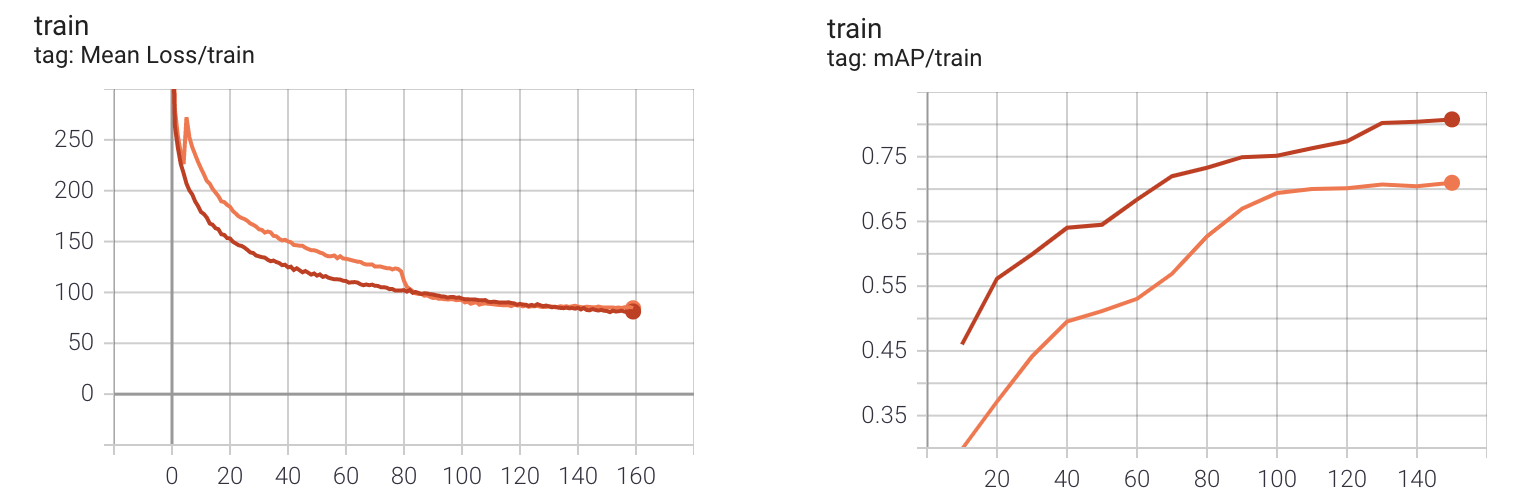
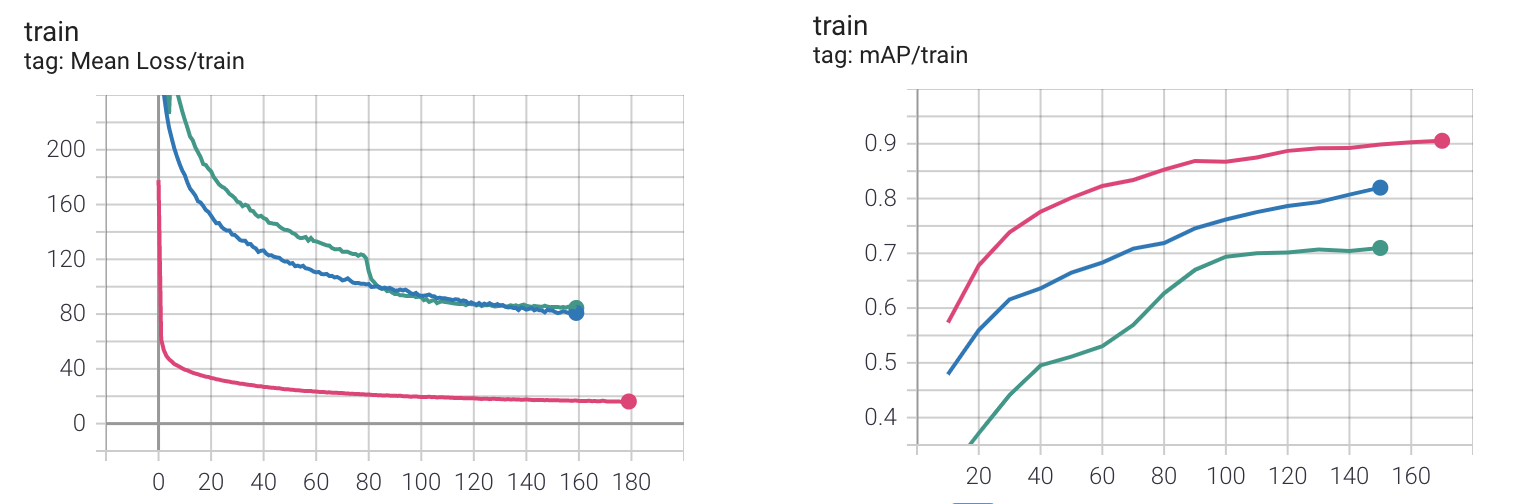
updated results section and mAP chart

diff --git a/algorithms/yolo_v2/README.md b/algorithms/yolo_v2/README.md
@@ -78,22 +78,23 @@ To start off, I used my past YOLOv1 code and modyfied it to fit whatever changed
 
 ## Results
 
-In short, when using pre-trained Darknet19 on ImageNet and later training on VOC2007+2012 I managed to obtain 0.69 testing on VOC2007 (calculated with Padilla et al. scripts). 
+In short, when using pre-trained Darknet19 on ImageNet and later training on VOC2007+2012 I managed to obtain 0.72 testing on VOC2007 (calculated with Padilla et al. scripts). 
 
-Same model but testing with a fixed 0.4 confidence threshold this corresponds to mAP 0.81 on train set and 0.58 on test. For Darknet19 pre-training, I got 91.6% top-5 accuracy and 74.0% top-1 accuracy on ImageNet test set after 150 epochs of training on ImageNet train set.
+Same model but testing with a fixed 0.4 confidence threshold this corresponds to mAP 0.91 on train set and 0.56 on test. For Darknet19 pre-training, I got 91.6% top-5 accuracy and 74.0% top-1 accuracy on ImageNet test set after 150 epochs of training on ImageNet train set.
 
 
 ![alt text][image2]
-*Fig. 2 YOLOv2 training charts (red = constant LR (2e-10). orange = scheduled LR).*
+*Fig. 2 YOLOv2 training charts: red = constant LR (2e-5), 180 epochs and loss weights set (2); blue = constant LR (2e-5) and loss weights set (1); green = scheduled LR).*
 
 ## Notes for running the code (similar as YOLOv1)
 - configuration parameters for each script (train/test/detect etc.) are global variables at the top of the source code (paths to datasets, pre-trained models; hyperparameters etc.)
 - first epoch always takes a bit longer to train
 - all paths in train/test/detect scripts need to be updated to match your dataset directories. 
 - this repository does not include the full datasets required to train the model, however I included tiny samples for both Pascal VOC and ImageNet to test things out more smoothly (look in the YOLO_v1 directory)
-- in the evaluation tables, I note the times and performances for multiple runs as I used a shared remote server that allowed running code only in certain blocks of time (e.g. 24h, 48h etc.)
+- in the evaluation table, I note the times and performances for multiple runs as I used a shared remote server that allowed running code only in certain blocks of time (e.g. 24h, 48h etc.)
 - in comparison to the YOLOv2 paper, my final version doesn't include Darknet training with the high resolution images, nor the YOLOv2 training with multi-scale (ie. switching scale every 10 epochs); I tested those solutions but didn't give me particularly improved results
 - LR setting can make quite a difference. The setting from the paper for scheduled LR decreasing by e-10 didn't work that good for me, after playing around with some other LR set I managed to improve it. However, in the end constant LR worked best.
+- weights for loss components do make a difference as well. My initial weights had greatly elevated object loss and then box loss (set 1), when I made all weights closer to each other just slightly favouring object loss mAP went up by 3% (set 2) ! 
 
 ### Darknet19 backbone training results (classification)
 
